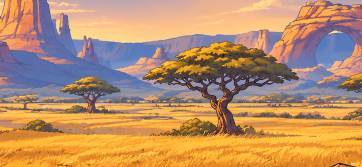
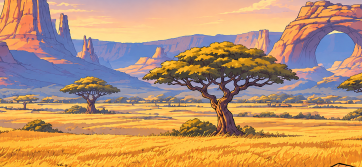
The menu's key art without the second Panoramic (the first landscape had him painted in, in spite of its prompt: an extra ring, shoulder and boot showed round the cut-out in blind rounds 7 and 8, "one boot shape too many", "over-rendered and noisy"): the model took him out of its own painting (menu_

diff --git a/New/tools/art/kie/menu.py b/New/tools/art/kie/menu.py
@@ -5,7 +5,7 @@ pictures glued together").
 
 He is cut out of the key art as it was (kie.py cutout: Recraft, tools/art/gen/kie/world/menu_hero.png: not a pixel of
 him repainted) and laid over the landscape GPT Image 2.6 Sunburst painted for him in the level's style, from the
-level's style frame and the old key art's composition (world/menu_bg.txt -> menu_bg.png): the same inked cel painting
+level's style frame and the old key art's composition (world/menu_bg.txt, then menu_bg2.txt -> menu_bg2.png): the same inked cel painting
 and the same low sun from the upper left as his own drawing.
 
     python3 tools/art/kie/menu.py && python3 tools/art/ui_keyart_soft.py
@@ -20,7 +20,10 @@ UI = Path(__file__).resolve().parents[3] / "assets/art/ui"
 SIZE = (2556, 1179)
 
 if __name__ == "__main__":
-    bg = Image.open(GEN / "menu_bg.png").convert("RGB")
+    # (menu_bg2: the first painting, menu_bg, had him in it in spite of its prompt: a second, smaller Panoramic showed
+    # round the cut-out; the model took him out of its own painting, world/menu_bg2.txt. Look at the landscape alone
+    # before laying him over it.)
+    bg = Image.open(GEN / "menu_bg2.png").convert("RGB")
     w = round(bg.height * SIZE[0] / SIZE[1])  # the menu's shape, cut about the painting's middle
     x = (bg.width - w) // 2
     bg = bg.crop((x, 0, x + w, bg.height)).resize(SIZE, Image.LANCZOS)
